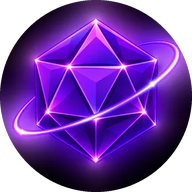
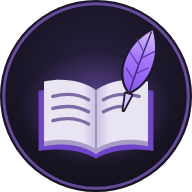
Nouvelle icône : un livre ouvert et une plume à la place du dé
Les icônes de l'application (favicon.png, icone-192.png, icone-512.png,
icone-maskable-512.png) représentent maintenant un livre ouvert et une
plume d'écriture, aux couleurs du thème (fond nuit, violet de l'Omni-système).
Mêmes noms et mêmes tailles qu'avant ; la version maskable garde le dessin
dans le cercle central (80 %) pour qu'Android ne le coupe pas.

Les dessins sources sont gardés dans assets/ (icone.svg et icone-maskable.svg)
pour pouvoir les retoucher, et signalés dans le LISEZ-MOI.
logo.png et logo-rond.png (logo commun de l'Omni-système) ne changent pas.

Claude-Session: https://claude.ai/code/session_01Y8r2jwZgmDPx3R5SDndimL

diff --git a/LISEZ-MOI.md b/LISEZ-MOI.md
@@ -461,6 +461,7 @@ dans `assets/` (en gardant les mêmes noms) :
 | `icone-192.png`, `icone-512.png` | icônes de l'application installée (rondes, fond sombre) |
 | `icone-maskable-512.png` | icône carrée pleine (Android découpe lui-même la forme) |
 | `favicon.png` | petite icône de l'onglet |
+| `icone.svg`, `icone-maskable.svg` | dessins sources des icônes (livre ouvert et plume), non utilisés par l'application : après une retouche, les reconvertir en PNG aux mêmes noms et tailles |
 
 Après le remplacement : lancer le serveur et ouvrir Omni-Romancier une fois pour qu'il prenne les nouvelles
 images (attendre la ligne ✓ dans « À propos » avant d'arrêter le serveur). L'icône de l'application déjà installée peut mettre un peu de temps à changer (la désinstaller
